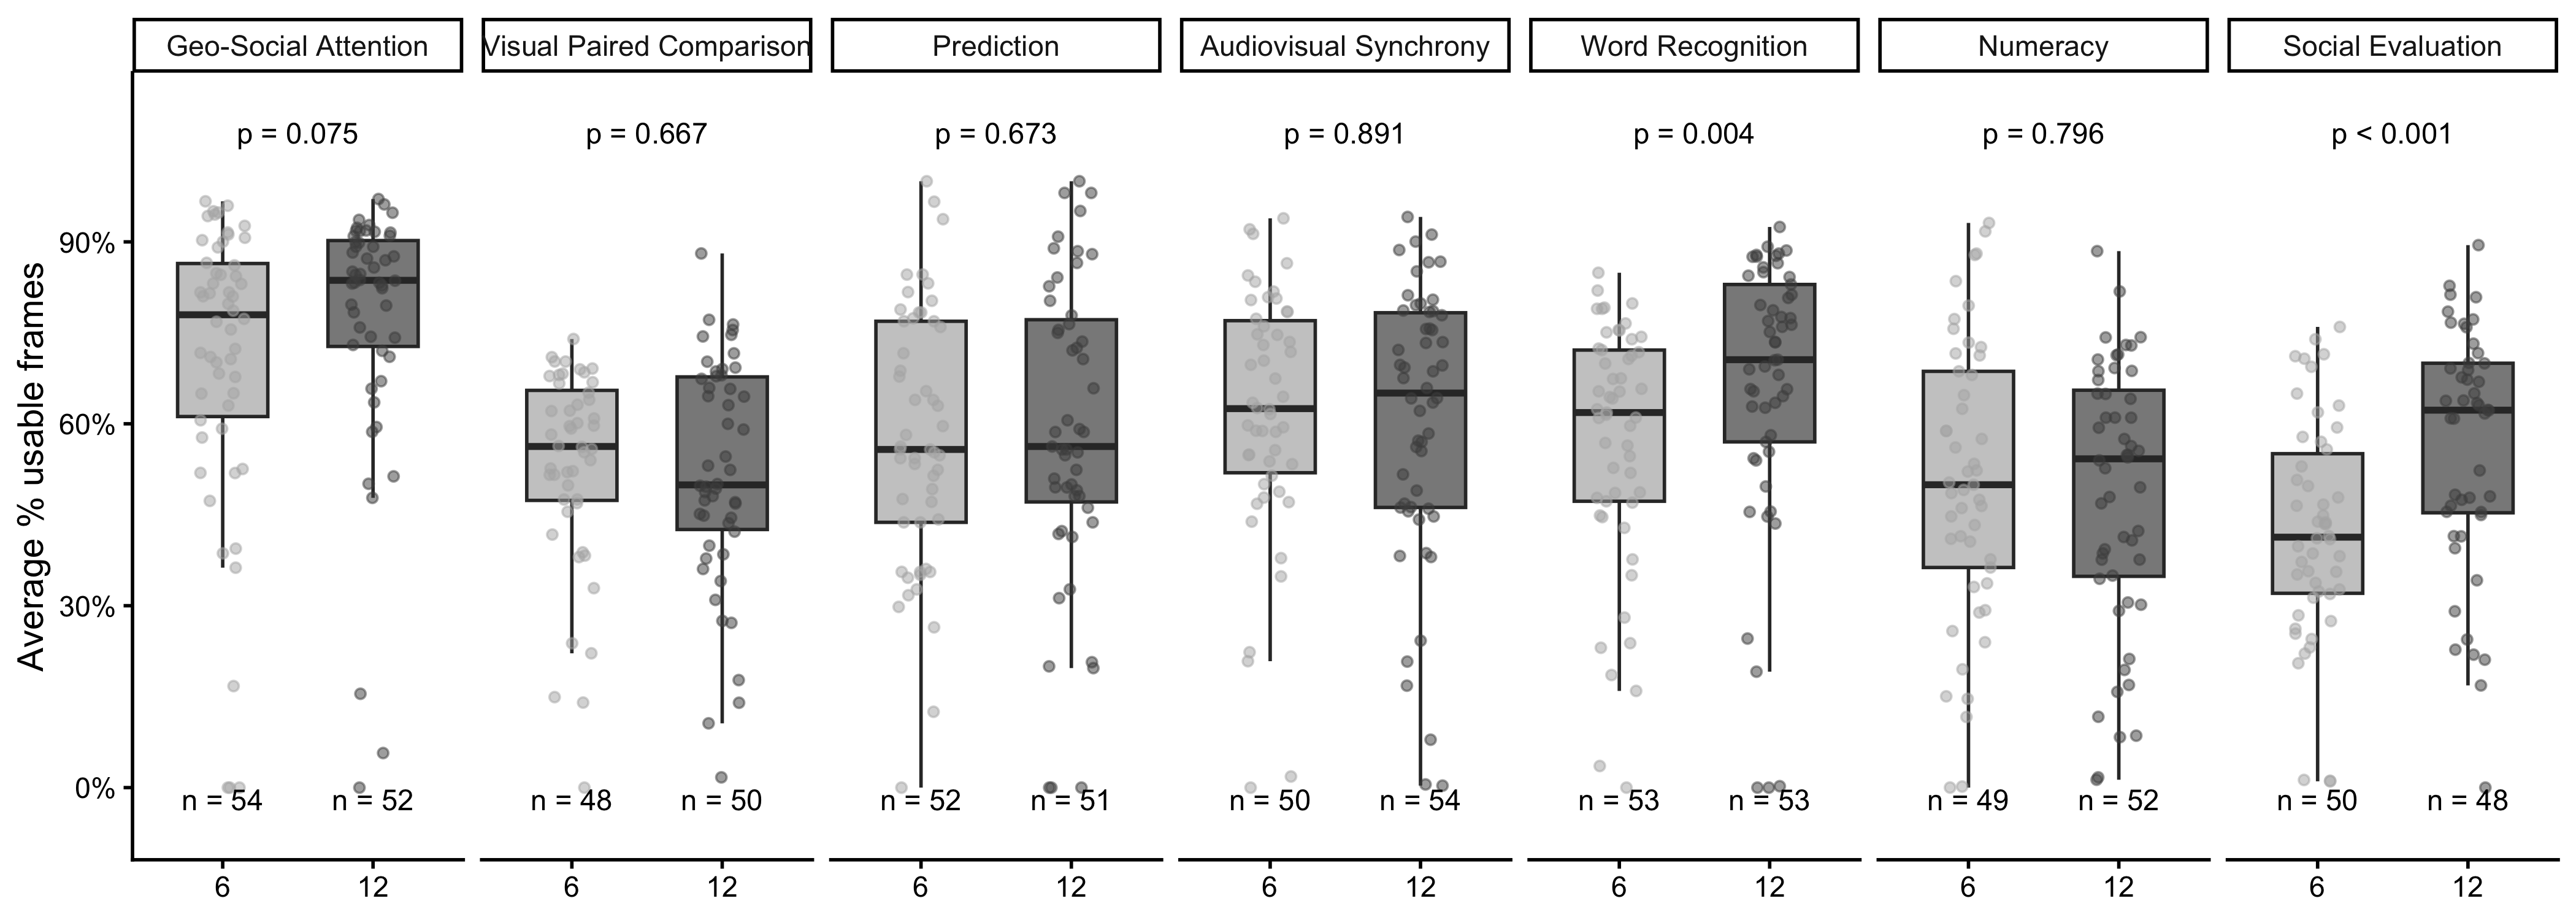
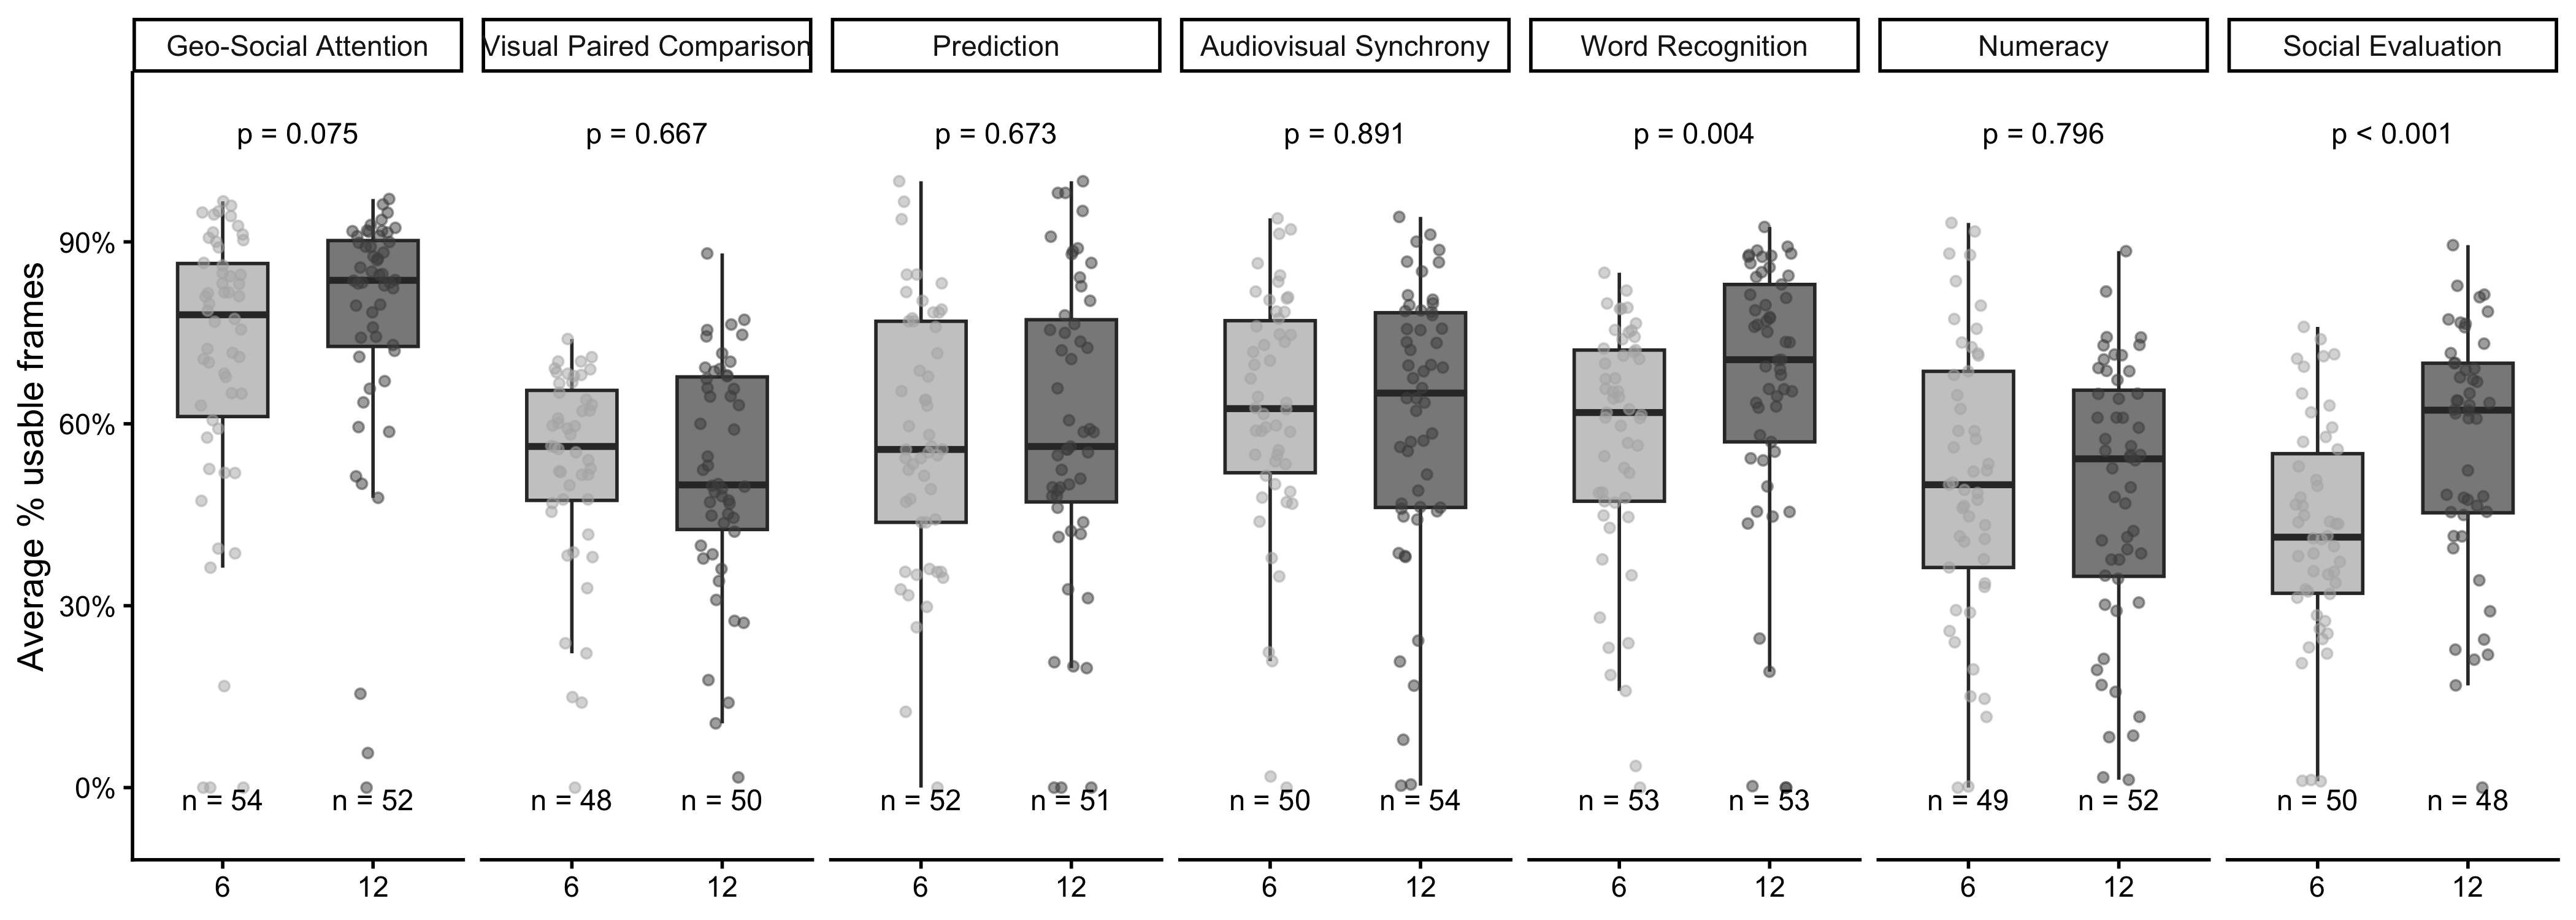
updates for reading

diff --git a/Aim2/Aim2_manuscript/RISE_Aim2_Manuscript.tex b/Aim2/Aim2_manuscript/RISE_Aim2_Manuscript.tex
@@ -224,8 +224,7 @@ The battery includes seven tasks to remotely assess developmental trajectories.
 This study expands on previous pilot work with a larger sample and modified methods.
 Data from 111 infants (55 6-month-olds and 56 12-month-olds) were collected asynchronously.
 Infant looking behavior was recorded with open-source software.
-Results for attention, memory, and prediction were consistent with preregistered predictions.
-Here we demonstrate replication as well as new information with an overlapping set of tasks with some modifications to the approach.
+Results for attention, memory, and prediction replicated expected patterns, supporting the feasibility of remote assessment in those domains. Other tasks assessing word comprehension and multimodal processing were not consistent with predictions, highlighting areas for further modifications of the remote tools. Overall, we demonstrate the translation and remote replication of several key tasks that assess early development which provides the opportunity for scalability of these tasks for larger, diverse populations.
 
 \textbf{Keywords:} cognitive development, remote, infant
 
@@ -456,7 +455,7 @@ For the \emph{Visual Paired Comparison (VPC) task}, each object was presented tw
 For the \emph{Prediction task}, trials 1 and 9 were excluded as the first trial of each block; participants were additionally required to have at least one anticipatory eye movement in Block 2 and at least two usable trials per block for the corresponding block outcome to be included (consistent with (Reuter et al., 2018)).
 The \emph{Word Comprehension task} presented five word--image pairs across two repetition blocks (trials 1--10 and trials 11--20).
 For each pair, the target word appeared as the fixation target in one block and as the distractor in the other (e.g., for the pair foot-milk, foot was the target in trial 1 and the distractor in trial 9, and vice versa.) The outcome for each pair was the proportion of time infants looked at an item when it was the target (across both blocks of trials) minus how much they looked at that same item when it was the distractor (across both blocks of trials), as in Bergelson \& Swingley, 2012.
-This yields 5 pair-level differences scores per participant.
+This yields 5 pair-level difference scores per participant.
 For the \emph{Social Evaluation task}, only trials 7 and 14 served as test trials (one per block); participants were required to have at least one usable helper trial and one usable hinderer trial within each block (Block 1: trials 1--6; Block 2: trials 8--13) for the corresponding test trial to be included.
 No additional task-specific criteria were applied for Geo-Social Attention, Audiovisual Synchrony, or Numeracy.
 The number of analytic trials, therefore, differs from the total administered trials for four tasks; Table \ref{tab:task-retention} summarizes analytic sample size and trial counts.
@@ -487,8 +486,7 @@ For the Prediction task, a Block term (Block 1 vs.~Block 2) was included as a wi
 For the Numeracy task, Constant Stream Size (5-item vs.~20-item) was included as a between-participant factor, as infants were randomly assigned to view only one constant stream condition for the entire task; an Age × Constant Stream Size interaction was included to test whether preferences for the alternating stream differed by condition.
 The statistical analyses closely followed the preregistered analysis plan.
 To better reflect the within-participant design of several tasks, mixed-effects models for the Visual Paired Comparison, Prediction, and Numeracy tasks included interaction terms (Age × Stimulus Type, Age × Block, and Age × Constant Stream Size, respectively).
-With the Prediction task, we modeled Block as a within-participant factor in a single mixed-effects model rather than fitting separate models for overall performance and Block 2.
-Overall, with these modifications we tested the preregistered hypotheses without changing the primary outcomes.
+With the Prediction task, we modeled Block as a within-participant factor in a single mixed-effects model rather than fitting separate models for overall performance and Block 2. Overall, with these modifications, we tested the preregistered hypotheses without changing the primary outcomes.
 
 Where consent was provided, participant videos are available on Databrary.
 Code and data are available through GitHub.
@@ -548,7 +546,7 @@ Results are reported as model-based estimates, corresponding 95\% confidence lim
 
 }
 
-\caption{Results for (a) Geo-Social Attention, (b) Visual Paired Comparison, (c) Prediction, (d) Audiovisual Synchrony, (e) Word Recognition, (f) Numeracy, and (g) Social Evaluation. \label{fig:task-results}}\label{fig:task-results-figure}
+\caption{Results for (a) Geo-Social Attention, (b) Visual Paired Comparison, (c) Prediction, (d) Audiovisual Synchrony, (e) Word Comprehension, (f) Numeracy, and (g) Social Evaluation. \label{fig:task-results}}\label{fig:task-results-figure}
 \end{figure}
 
 \paragraph{Geo-Social Attention Task}\label{geo-social-attention-task}
@@ -561,7 +559,7 @@ See Figure \ref{fig:task-results-figure}a and Table \ref{tab:modeltable}.
 \paragraph{Visual Paired Comparison (VPC) Task}\label{visual-paired-comparison-vpc-task}
 
 Our preregistered hypothesis was that 12-month-olds would show a stronger novelty effect than 6-month-olds and that the effects of novelty would be stronger for faces than for Fribbles.
-The results showed that both 12-month-olds but not 6-month-olds demonstrated signficant preference for novel faces (12-m: M = 0.58 {[}0.51, 0.66{]}, \emph{p} = 0.033; 6-m: M = 0.56 {[}0.49, 0.64{]}, \emph{p} = 0.084), without a significant effect of age (\emph{p} = 0.508).
+The results showed that 12-month-olds but not 6-month-olds demonstrated significant preference for novel faces (12-m: M = 0.58 {[}0.51, 0.66{]}, \emph{p} = 0.033; 6-m: M = 0.56 {[}0.49, 0.64{]}, \emph{p} = 0.084), without a significant effect of age (\emph{p} = 0.508).
 For non-face objects (Fribbles), 6-month-olds (M = 0.56 {[}0.51, 0.62{]}, \emph{p} = 0.026), and 12-month-olds (M = 0.56 {[}0.51, 0.62{]}, \emph{p} = 0.025) showed a reliable preference for the novel object at test, and again there was not a significant effect of age (\emph{p} = 0.969).
 The effect of stimulus type was not significant for either 6- or 12-month-olds (\emph{p} = 0.98 and \emph{p} = 0.62, respectively).
 See Figure \ref{fig:task-results-figure}b and Table \ref{tab:modeltable}.
@@ -569,16 +567,12 @@ See Figure \ref{fig:task-results-figure}b and Table \ref{tab:modeltable}.
 \paragraph{Prediction Task}\label{prediction-task}
 
 The pre-registered hypothesis was that 12-month-old infants would demonstrate more AEMs to the target side (versus the distractor side) than 6-month-old infants.
-As seen in Table \ref{tab:modeltable}, this hypothesis held true in that there were more AEMs to target amongst the 12-month-olds; however, these differences between age groups were not significant (Block 1: 12-m: M = 0.52 {[}0.39, 0.64{]}, \emph{p} = 0.778; 6-m: M = 0.38 {[}0.26, 0.50{]}, \emph{p} = 0.044; 12-m vs.~6-m: M = -0.14 {[}-0.31, 0.03{]}, \emph{p} = 0.108.
+As seen in Table \ref{tab:modeltable}, there were more AEMs to target amongst the 12-month-olds; however, these differences between age groups were not significant (Block 1: 12-m: M = 0.52 {[}0.39, 0.64{]}, \emph{p} = 0.778; 6-m: M = 0.38 {[}0.26, 0.50{]}, \emph{p} = 0.044; 12-m vs.~6-m: M = -0.14 {[}-0.31, 0.03{]}, \emph{p} = 0.108.
 Block 2: 12-m: M = 0.68 {[}0.55, 0.80{]}, \emph{p} = 0.005; 6-m: M = 0.62 {[}0.50, 0.74{]}, \emph{p} = 0.059; 12-m vs.~6-m: M = -0.06 {[}-0.23, 0.11{]}, \emph{p} = 0.507).
 As reflected in these analyses, both 6-month-olds and 12-month-olds failed to show reliable AEMs to the target side in Block 1.
-In Block 1, 6-month-olds overall were even significantly not showing anticipatory looks towards the target side but rather looking towards the incorrect side.
-The pattern with the 12-month-olds was also surprising given that the 12-month-olds seem to show reliable predictions to the updated location in Block 2.
-(See Figure \ref{fig:task-results-figure}c and Table \ref{tab:modeltable}.)
+In Block 1, 6-month-olds overall were even significantly not showing anticipatory looks towards the target side but rather looking towards the incorrect side. The pattern with the 12-month-olds was also surprising given that the 12-month-olds seem to show reliable predictions to the updated location in Block 2. (See Figure \ref{fig:task-results-figure}c and Table \ref{tab:modeltable}.)
 
-To clarify the source of these unexpected results, we ran an exploratory analysis comparing the proportion of infants with AEMs to chance on each trial (uncorrected).
-In Block 1, results indicated that overall, neither 6-month-olds nor 12-month-olds reliably demonstrated AEMs on any individual trial (Figure \ref{fig:prediction-trial-by-trial}).
-In Block 2, most 12-month-olds were able to update their predictions about the new location reliably by Trial 11 (the 2nd trial in Block 2), whereas 6-month-olds were able to do so on Trial 11 and Trial 14 but were not consistent on other trials (and as such on average across the trials in Block 2 did not show a reliable tendency to predict the updated location).
+To clarify the source of these unexpected results, we ran an exploratory analysis comparing the proportion of infants with AEMs to chance on each trial (uncorrected). In Block 1, results indicated that overall, neither 6-month-olds nor 12-month-olds reliably demonstrated AEMs on any individual trial (Figure \ref{fig:prediction-trial-by-trial}). In Block 2, most 12-month-olds were able to update their predictions about the new location reliably by Trial 11 (the 2nd trial in Block 2), whereas 6-month-olds were able to do so on Trial 11 and Trial 14 but were not consistent on other trials (and as such on average across the trials in Block 2 did not show a reliable tendency to predict the updated location).
 
 \begin{figure}
 
@@ -596,7 +590,7 @@ See Figure \ref{fig:task-results-figure}d and Table \ref{tab:modeltable}.
 
 \paragraph{Word Comprehension Task}\label{word-comprehension-task}
 
-Again in contrast from our preregistered hypothesis, the 12-month-olds did not differ from the 6-month-olds in their looks to the target (M = 0.04 {[}0.00, 0.08{]}, \emph{p} = 0.042).
+Again, in contrast from our preregistered hypothesis, the 12-month-olds did not differ from the 6-month-olds in their looks to the target (M = 0.04 {[}0.00, 0.08{]}, \emph{p} = 0.042).
 Neither the 12-month-olds nor the 6-month-olds looked more to the target object when it was the target than when it was the distractor (12-m: M = 0.04 {[}-0.00, 0.08{]}, \emph{p} = 0.077; 6-m: M = -0.01 {[}-0.05, 0.04{]}, \emph{p} = 0.773).
 See Figure \ref{fig:task-results-figure}e and Table \ref{tab:modeltable}.
 